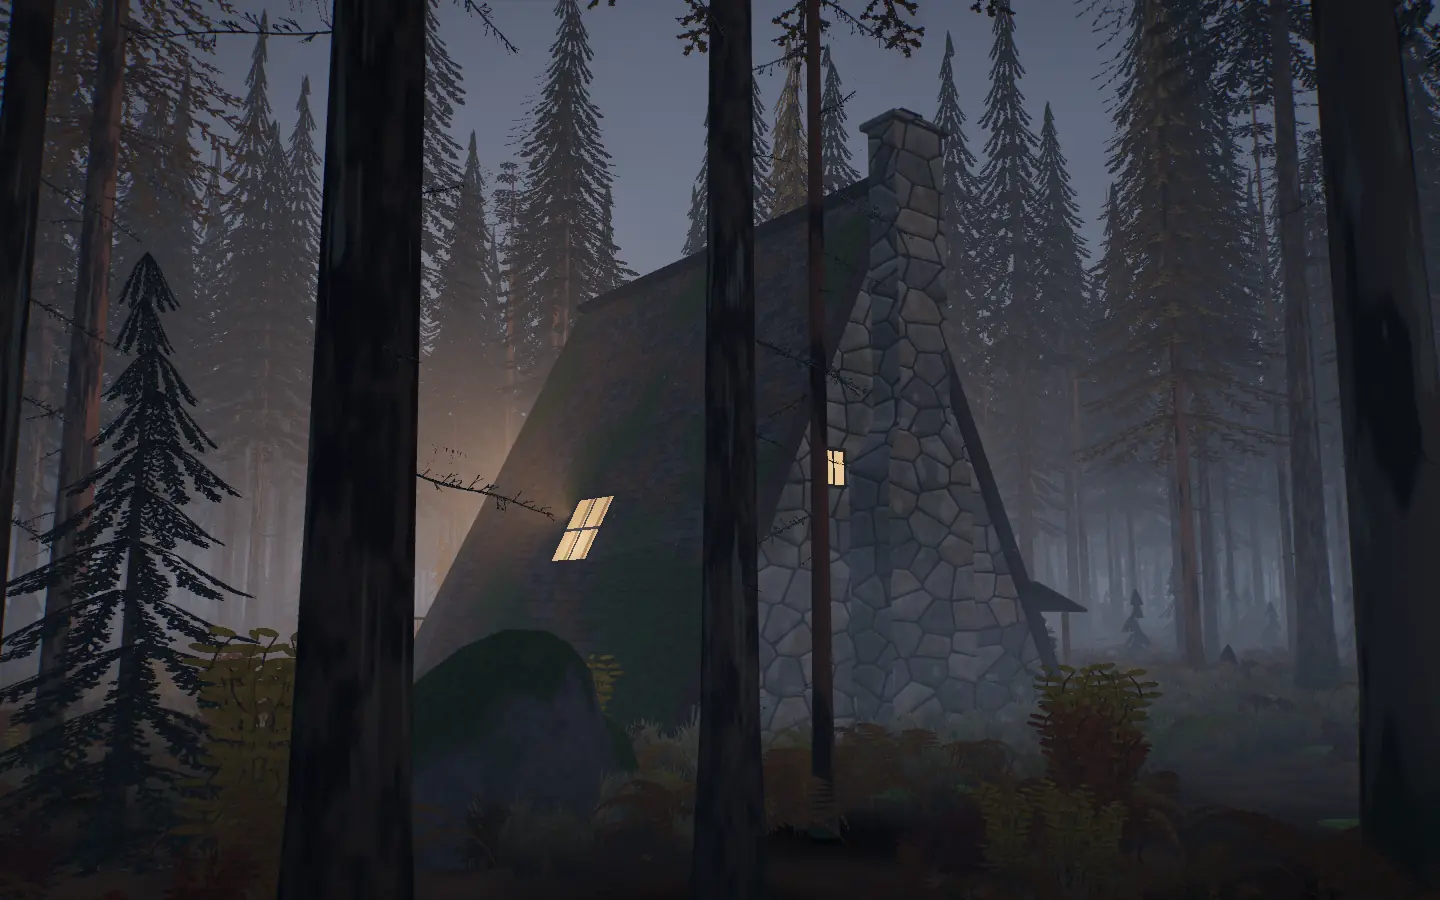
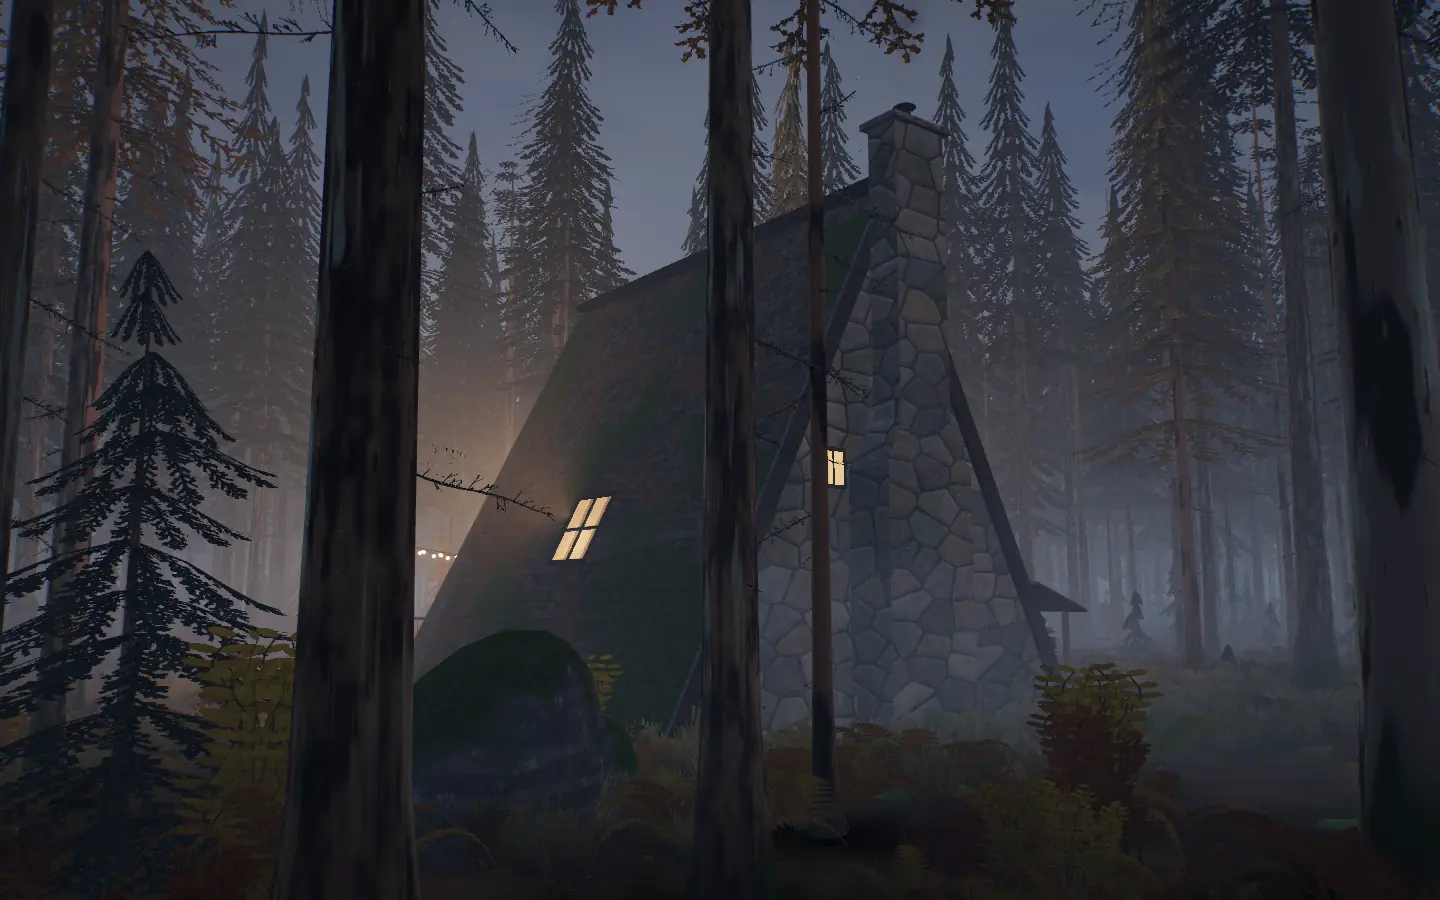
Hearth: fresh screenshots after the polish
Claude-Session: https://claude.ai/code/session_01GHzSRPRqkqfaveccepgYrb

diff --git a/js/data.js b/js/data.js
@@ -26,7 +26,7 @@ export const worlds = [
     play: "hearth/",
     label: "Enter",
     shots: [
-      { src: "hearth-1.webp", alt: "A glowing A-frame cabin in a misty spruce forest at dusk, smoke rising from its chimney, a flagstone path leading to it", caption: "Through the trunks at dusk" },
+      { src: "hearth-1.webp", alt: "A glowing A-frame cabin in a misty spruce forest at dusk, smoke rising from its chimney, a trodden path leading to it through rusty bracken", caption: "Through the trunks at dusk" },
       { src: "hearth-2.webp", alt: "The front of the A-frame up close: a string of lights over the deck, lit windows, pumpkins on the steps, a chopping block with an axe", caption: "Up close: string lights over the deck" },
       { src: "hearth-3.webp", alt: "The back of the cabin: a stone gable wall with a stone chimney rising above the roof", caption: "The stone wall and chimney at the back" },
       { src: "hearth-4.webp", alt: "The cabin at night, only its windows lit, glowing in the mist", caption: "Nightfall" },
